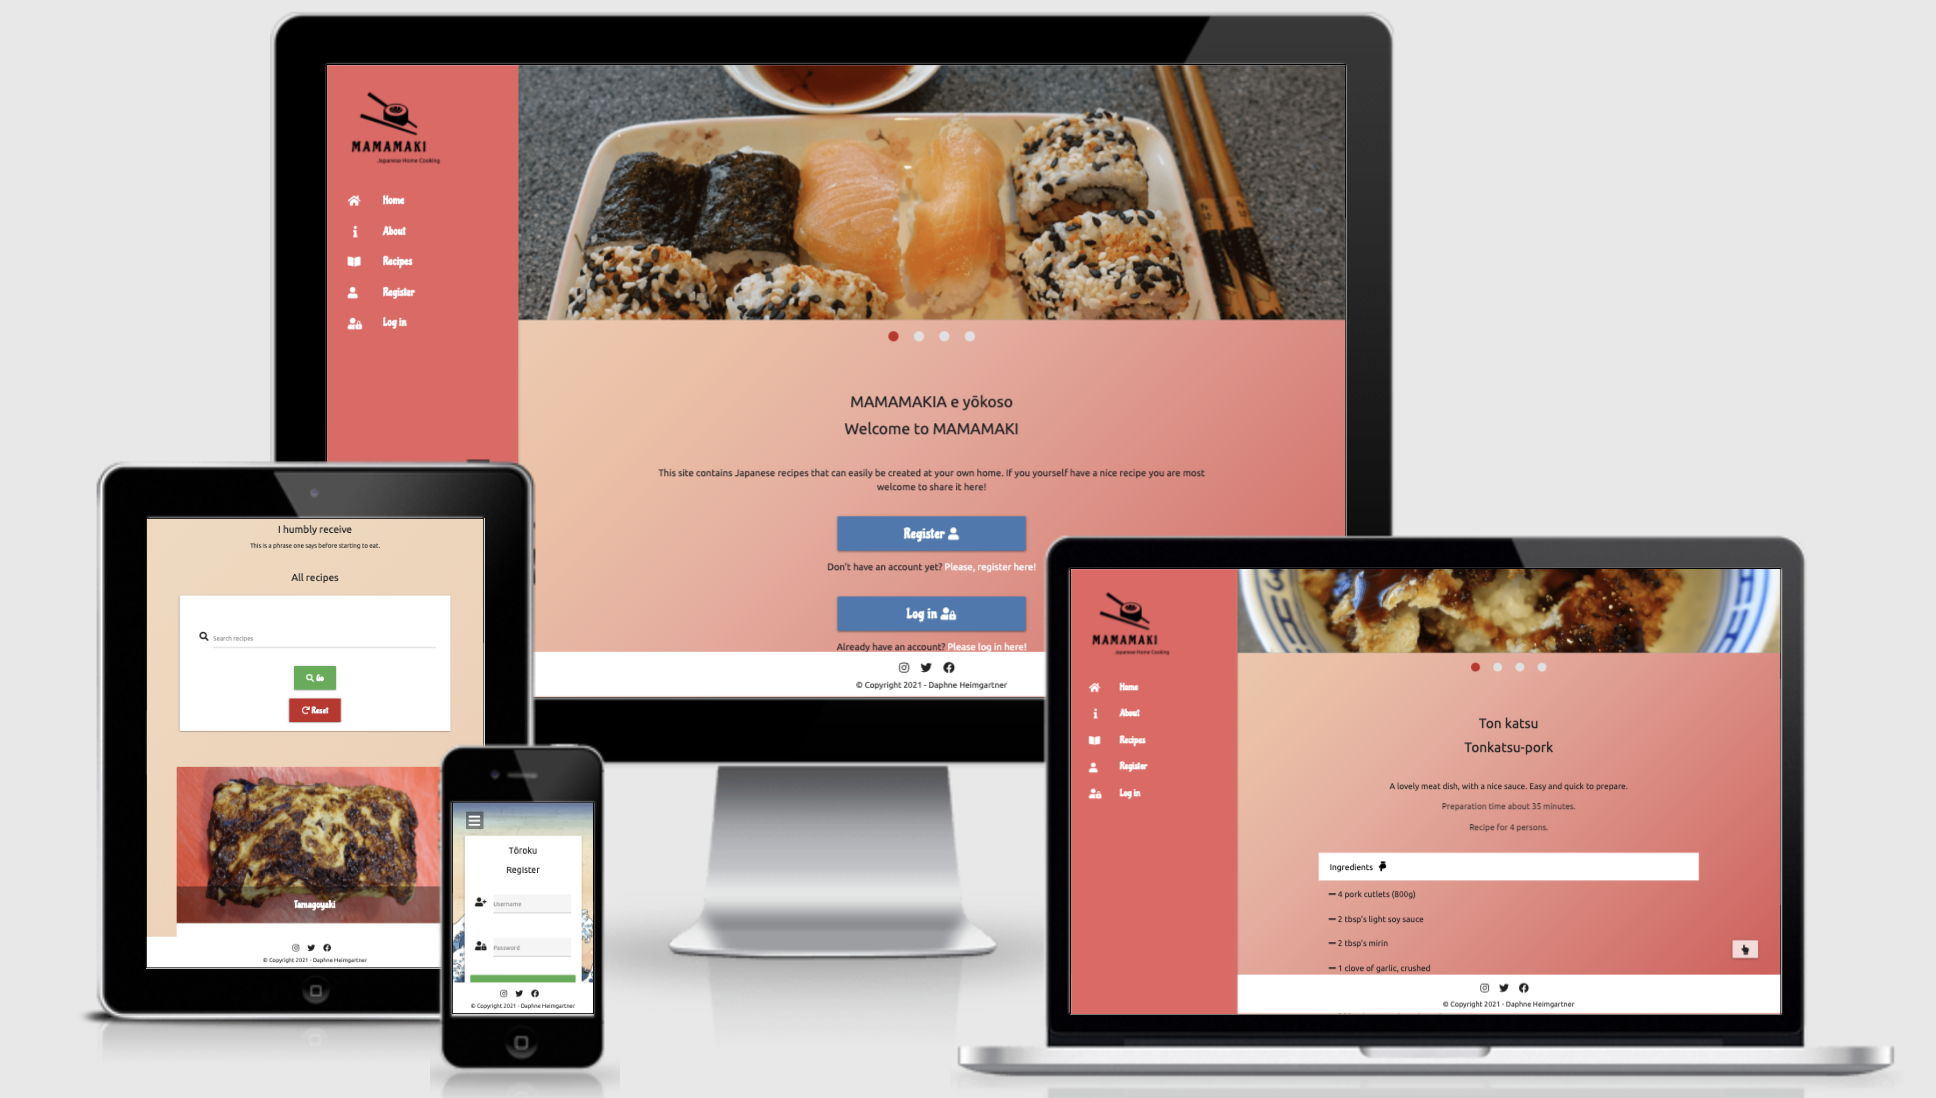
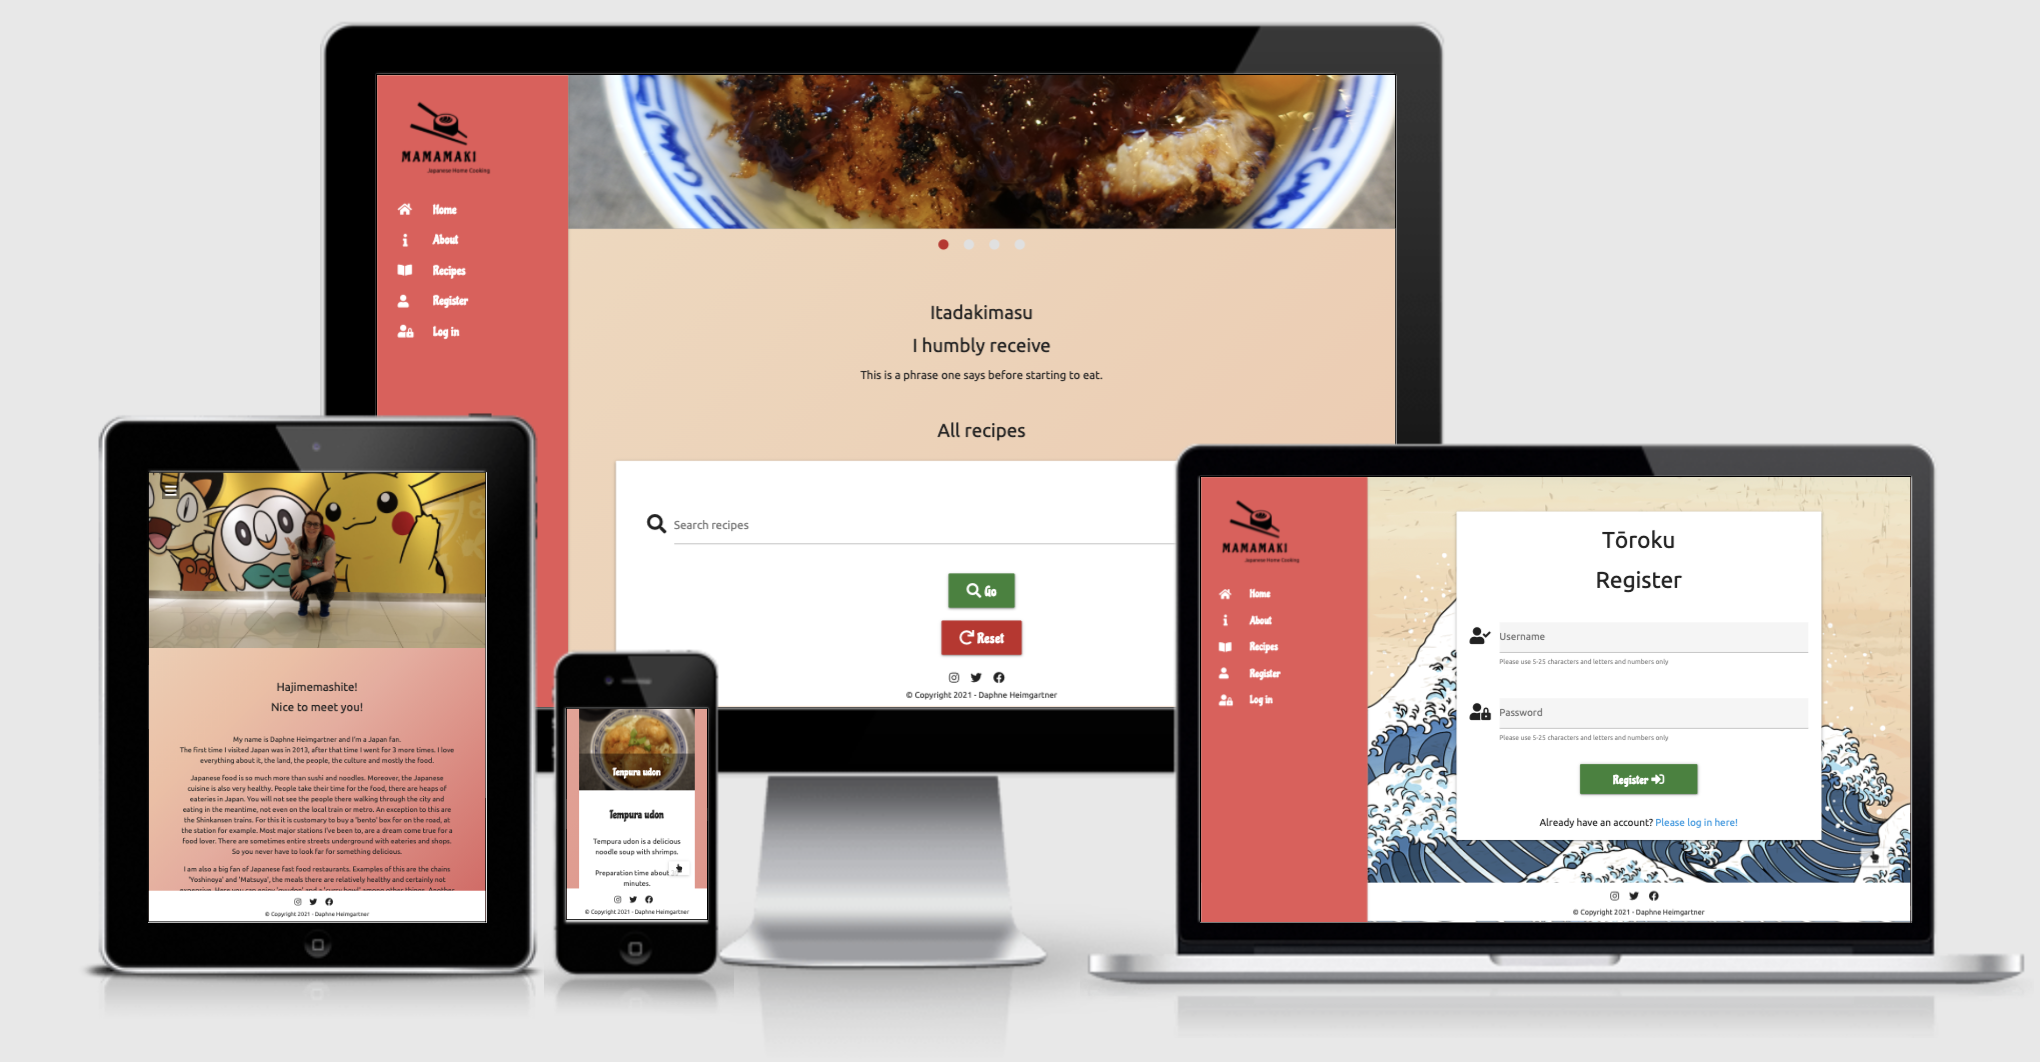
Updated Readme table of contents, UX, testing and credits sections

diff --git a/README.md b/README.md
@@ -42,7 +42,7 @@ Table of Contents
 </details>
 
 **<details><summary>Testing and Bugs</summary>**
-* [**_Preface_**](#preface)
+* [**_Testing file_**](#testing-file)
 </details>
 
 **<details><summary>Deployment</summary>**
@@ -51,7 +51,6 @@ Table of Contents
 * [**_Heroku_**](#heroku)
 * [**_Setting EmailJS up_**](#setting-emailjs-up)
 </details>
-
 
 **<details><summary>Credits</summary>**
 * [**_Content_**](#content)
@@ -116,11 +115,17 @@ Eventually some items were added to the diagram and it has been simplified.
 
 **Surface**
 
-The following colors will be used:
+The following main colors will be used:
 
-<img src="static/readme images/hex_EB6161.png" alt="Side menu color" width="25%" height="25%"> <img src="static/readme images/hex_FFFFFF.png" alt="Side menu text color" width="25%" height="25%"> <img src="static/readme images/hex_212121.png" alt="Text color"  width="25%" height="25%"> <br>
+<img src="static/readme images/hex_EA5757.png" alt="Side menu color" width="25%" height="25%"> <img src="static/readme images/hex_FFFFFF.png" alt="Side menu text color" width="25%" height="25%"> <img src="static/readme images/hex_212121.png" alt="Text color"  width="25%" height="25%"> <br>
 
-And for a gradient background: <br>
+For the buttons and forms the following colors will be used:
+
+<img src="static/readme images/hex_1A581C.png" alt="Green btn" width="25%" height="25%"> <img src="static/readme images/hex_338436.png" alt="Green btn hover" width="25%" height="25%"> <img src="static/readme images/hex_C62828.png" alt="Red btn" width="25%" height="25%"> <br>
+<img src="static/readme images/hex_6D1B1B.png" alt="Red btn hover"  width="25%" height="25%"> <img src="static/readme images/hex_4478B1.png" alt="Blue btn" width="25%" height="25%"> <img src="static/readme images/hex_103D6D.png" alt="Blue btn hover" width="25%" height="25%"><br>
+<img src="static/readme images/hex_707070.png" alt="Form color 1"  width="25%" height="25%"> <img src="static/readme images/hex_757575.png" alt="Form color 2" width="25%" height="25%"> <br>
+
+For a gradient background: <br>
 <img src="static/readme images/hex_DE5959.png" alt="Gradient 1"  width="25%" height="25%"> <img src="static/readme images/hex_EFAA9C.png" alt="Gradient 2"  width="25%" height="25%"> <img src="static/readme images/hex_F3BEA2.png" alt="Gradient 3"  width="25%" height="25%"><img src="static/readme images/hex_F1DEC2.png" alt="Gradient 4"  width="25%" height="25%"> <br>
 
 Which results in this: <br>
@@ -222,7 +227,6 @@ Technologies
 - Jinja
 - Werkzeug
 
-
 ### Wireframes
 
 - Adobe XD
@@ -243,6 +247,8 @@ Technologies
 
 Testing and Bugs
 ======
+
+### Testing file
 
 The tests have been done on multiple devices and browsers, in the end everything works as intended. Because this topic contained more content than expected, a separate page was created.
 For more details about testing and bugs please view this [file](testing/README.md).
@@ -291,8 +297,8 @@ git clone https://github.com/Daph1986/mamamaki.git
 In this cases the database is called `mamamaki_recipe_manager`, two collections are used:<br>
 <img src="static/readme images/db_1.png" alt="MongoDB 1" width="25%" height="25%"/> <br> 
 and they are filled out like this:<br> 
-<img src="static/readme images/db_2.png" alt="MongoDB 1" width="50%" height="50%"/> <br> 
-<img src="static/readme images/db_3.png" alt="MongoDB 1" width="50%" height="50%"/>
+<img src="static/readme images/db_2.png" alt="MongoDB 1" width="75%" height="75%"/> <br> 
+<img src="static/readme images/db_3.png" alt="MongoDB 1" width="75%" height="75%"/>
 
 11. Create an `env.py` file, type
 ```
@@ -391,7 +397,6 @@ You can click the view button to launch your app.
 <img src="static/readme images/integration.png" alt="Integration" width="50%" height="50%"/>
 8. The EmailJS service is set up and everything should work.
 
-
 Credits
 ======
 
@@ -402,7 +407,6 @@ All content has been written by me,some of the recipes I edited to my own liking
 2. [Tamago - SUSHITOTAAL.NL](https://www.sushitotaal.nl/tamago_bereiden) 
 3. [Miso soup - THE SUSHI TIMES](https://www.thesushitimes.com/recept-miso-soep-onmisbaar-japanse-keuken/) 
 4. [All the other recipes - Culinair genieten - Japans](https://www.lantaarnpublishers.nl/winkel/koken/japans/) 
-
 
 ### Code:
 
@@ -415,6 +419,7 @@ All content has been written by me,some of the recipes I edited to my own liking
 7. [W3schools](https://www.w3schools.com/howto/howto_js_scroll_to_top.asp) to help me make a scroll back to the top button.
 8. [Autoprefixer CSS](https://autoprefixer.github.io/) to optimize the use of vendor extensions in the CSS code.
 9. [Materialize](https://materializecss.com/) as a reference work on the framework.
+10. [Python Programming](https://pythonprogramming.net/decorator-wrappers-flask-tutorial-login-required/) as how to use the Login_Required decorator.
 
 ### Media 
 
@@ -432,13 +437,12 @@ All content has been written by me,some of the recipes I edited to my own liking
 
 6. [Rawpixel](https://www.rawpixel.com/image/2400897/free-illustration-png-japan-japanese-culture-art-torii-gate) Japanese torii gate sticker with white border by Tvzsu was used as a background for the error pages.
 
-
 ### Other
 
 1. [creately](https://creately.com/) to create the data diagrams.
 2. [RandomKeygen](https://randomkeygen.com/) to get a value for the secret key.
 3. [cdnjs](https://cdnjs.com/) to get the fontawsome cdn from.
-4. [jQuery](https://code.jquery.com/) to get the jquery cdn from.
+4. [jQuery](https://code.jquery.com/) to get the jQuery cdn from.
 5. [Am I Responsive?](http://ami.responsivedesign.is/?url=https%3A%2F%2Fdaph1986.github.io%2FPostfly-business-card-creator%2Findex.html) to check the responsiveness and make the mockups.
 
 ### Acknowledgements
@@ -451,5 +455,6 @@ All content has been written by me,some of the recipes I edited to my own liking
 ```
 {{ url_for('static', filename='images/logo.png') }}
 ```
+- Fellow slack members, Andrew Dempsey, Mike Avgeros and Pete Baker for extensive testing my project.
 
 <div align="right"><a href="#top">🔝</a></div>
